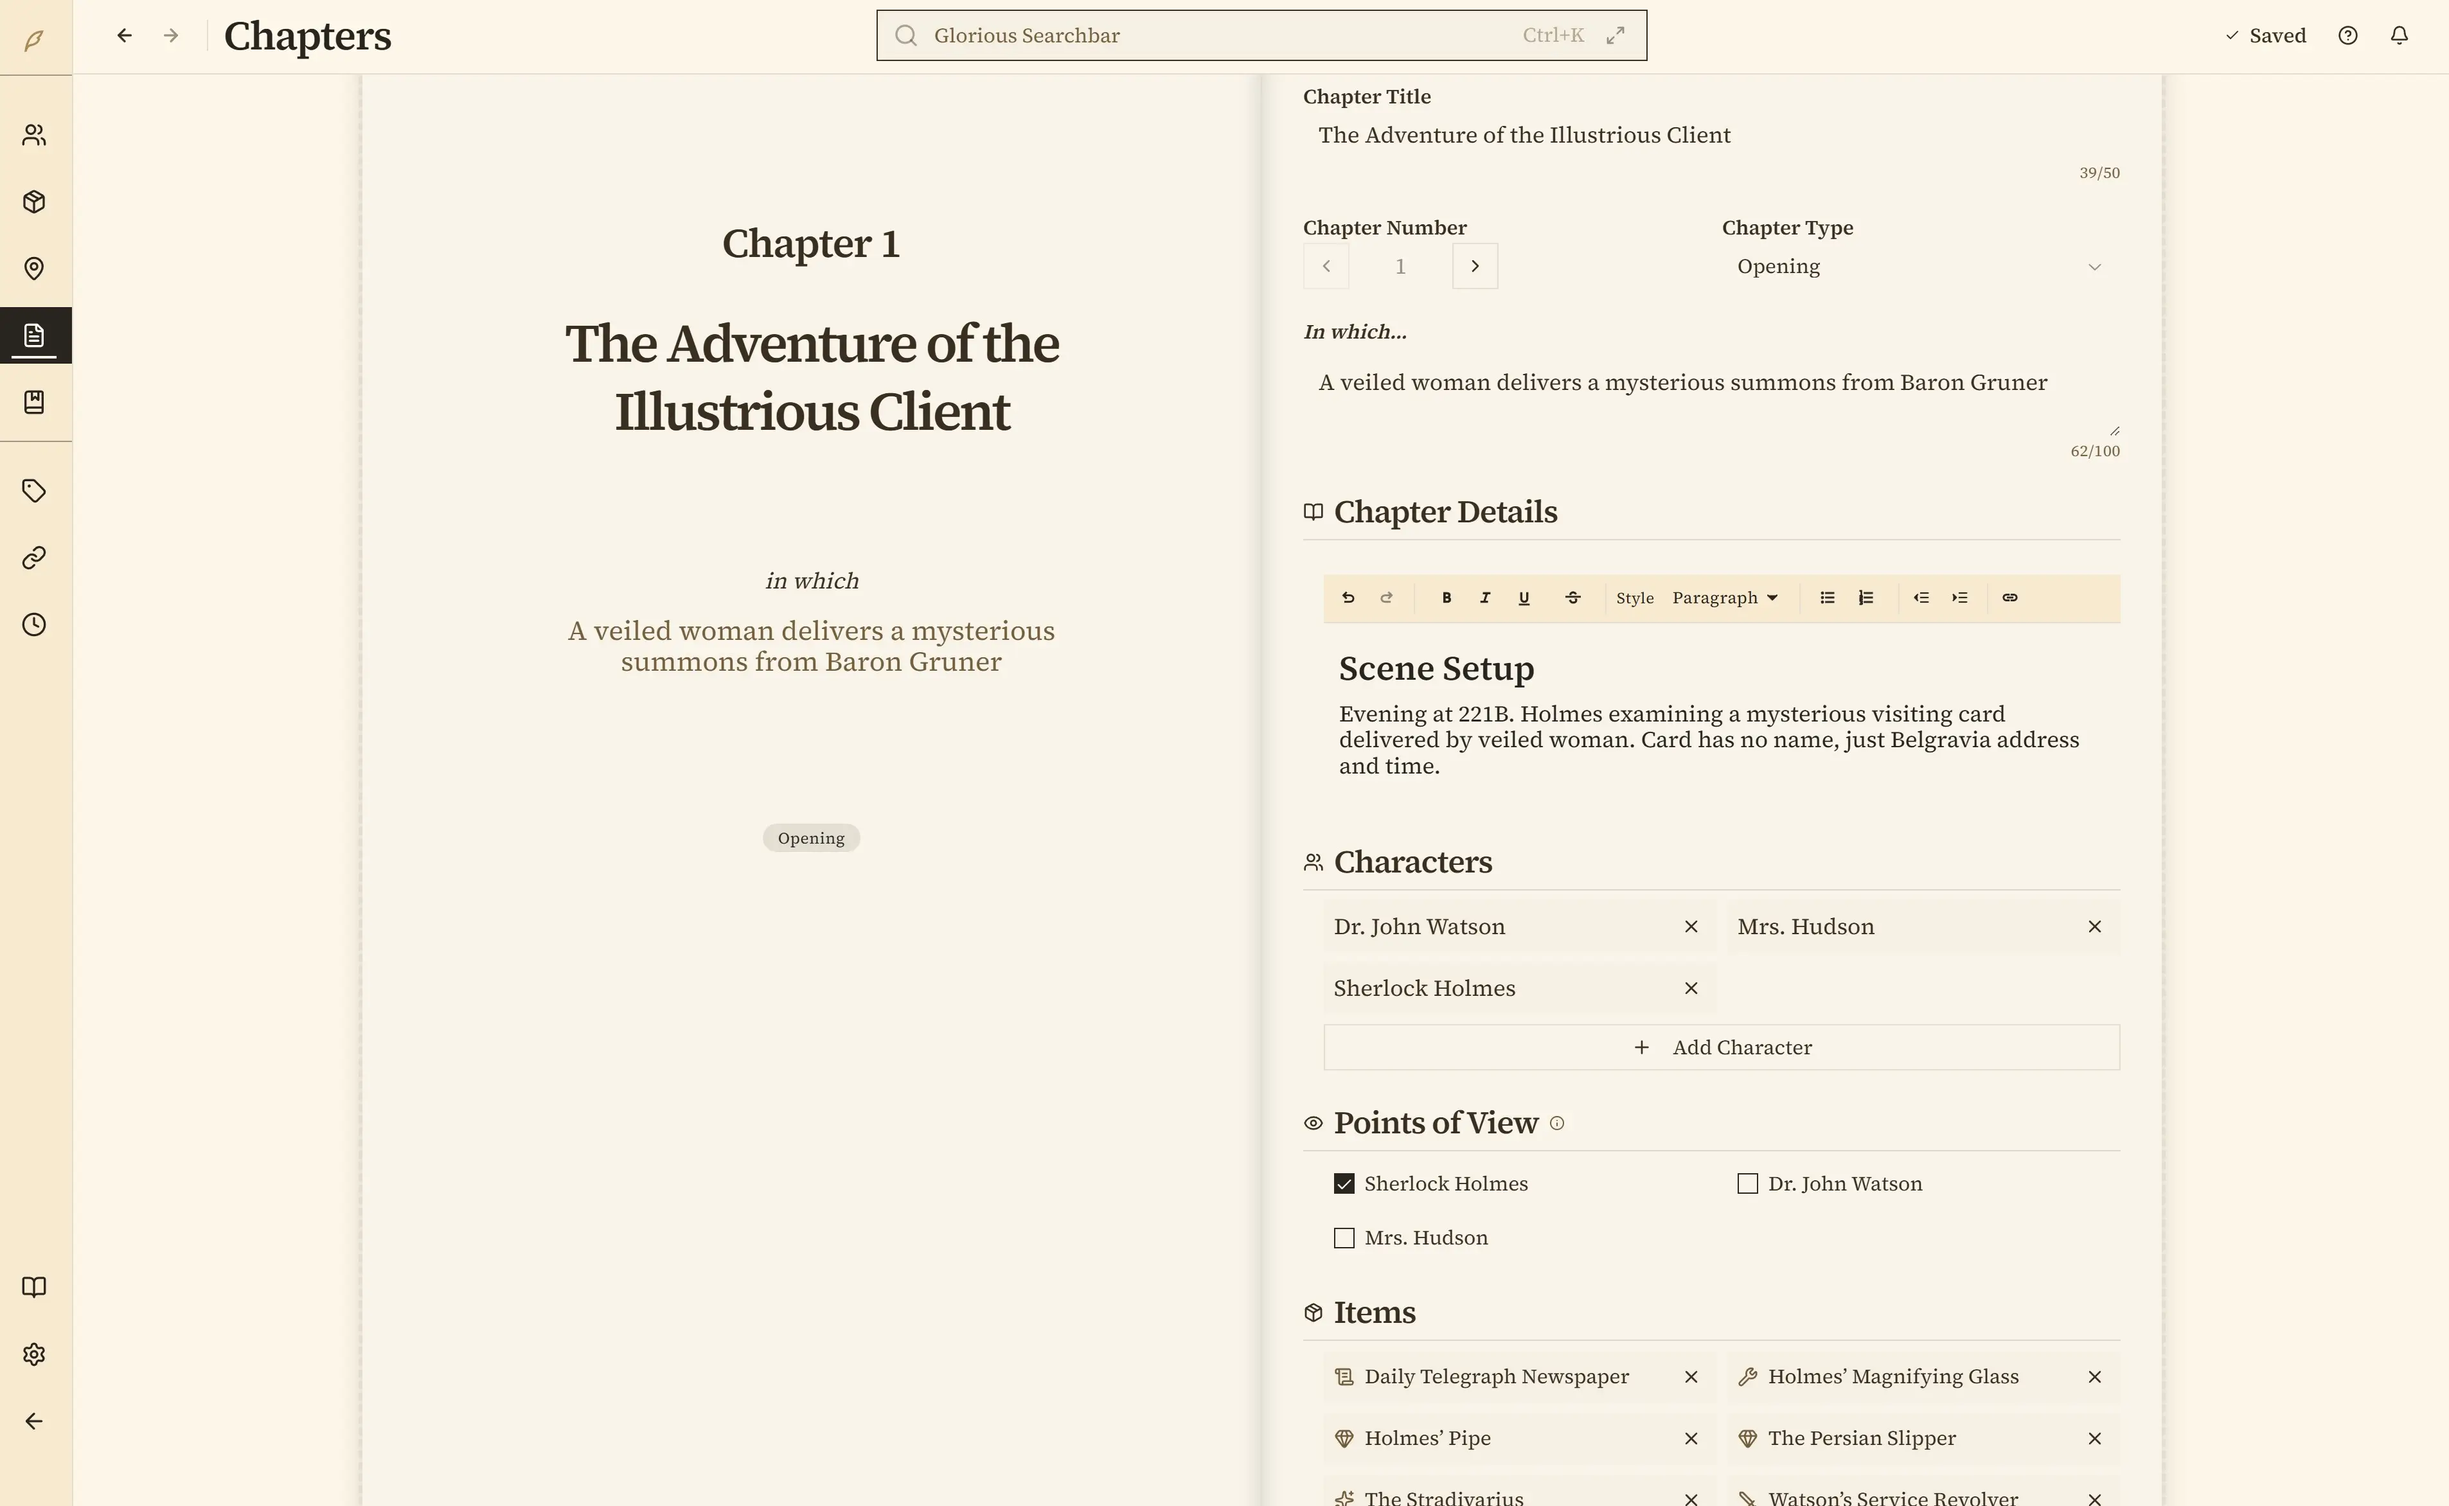
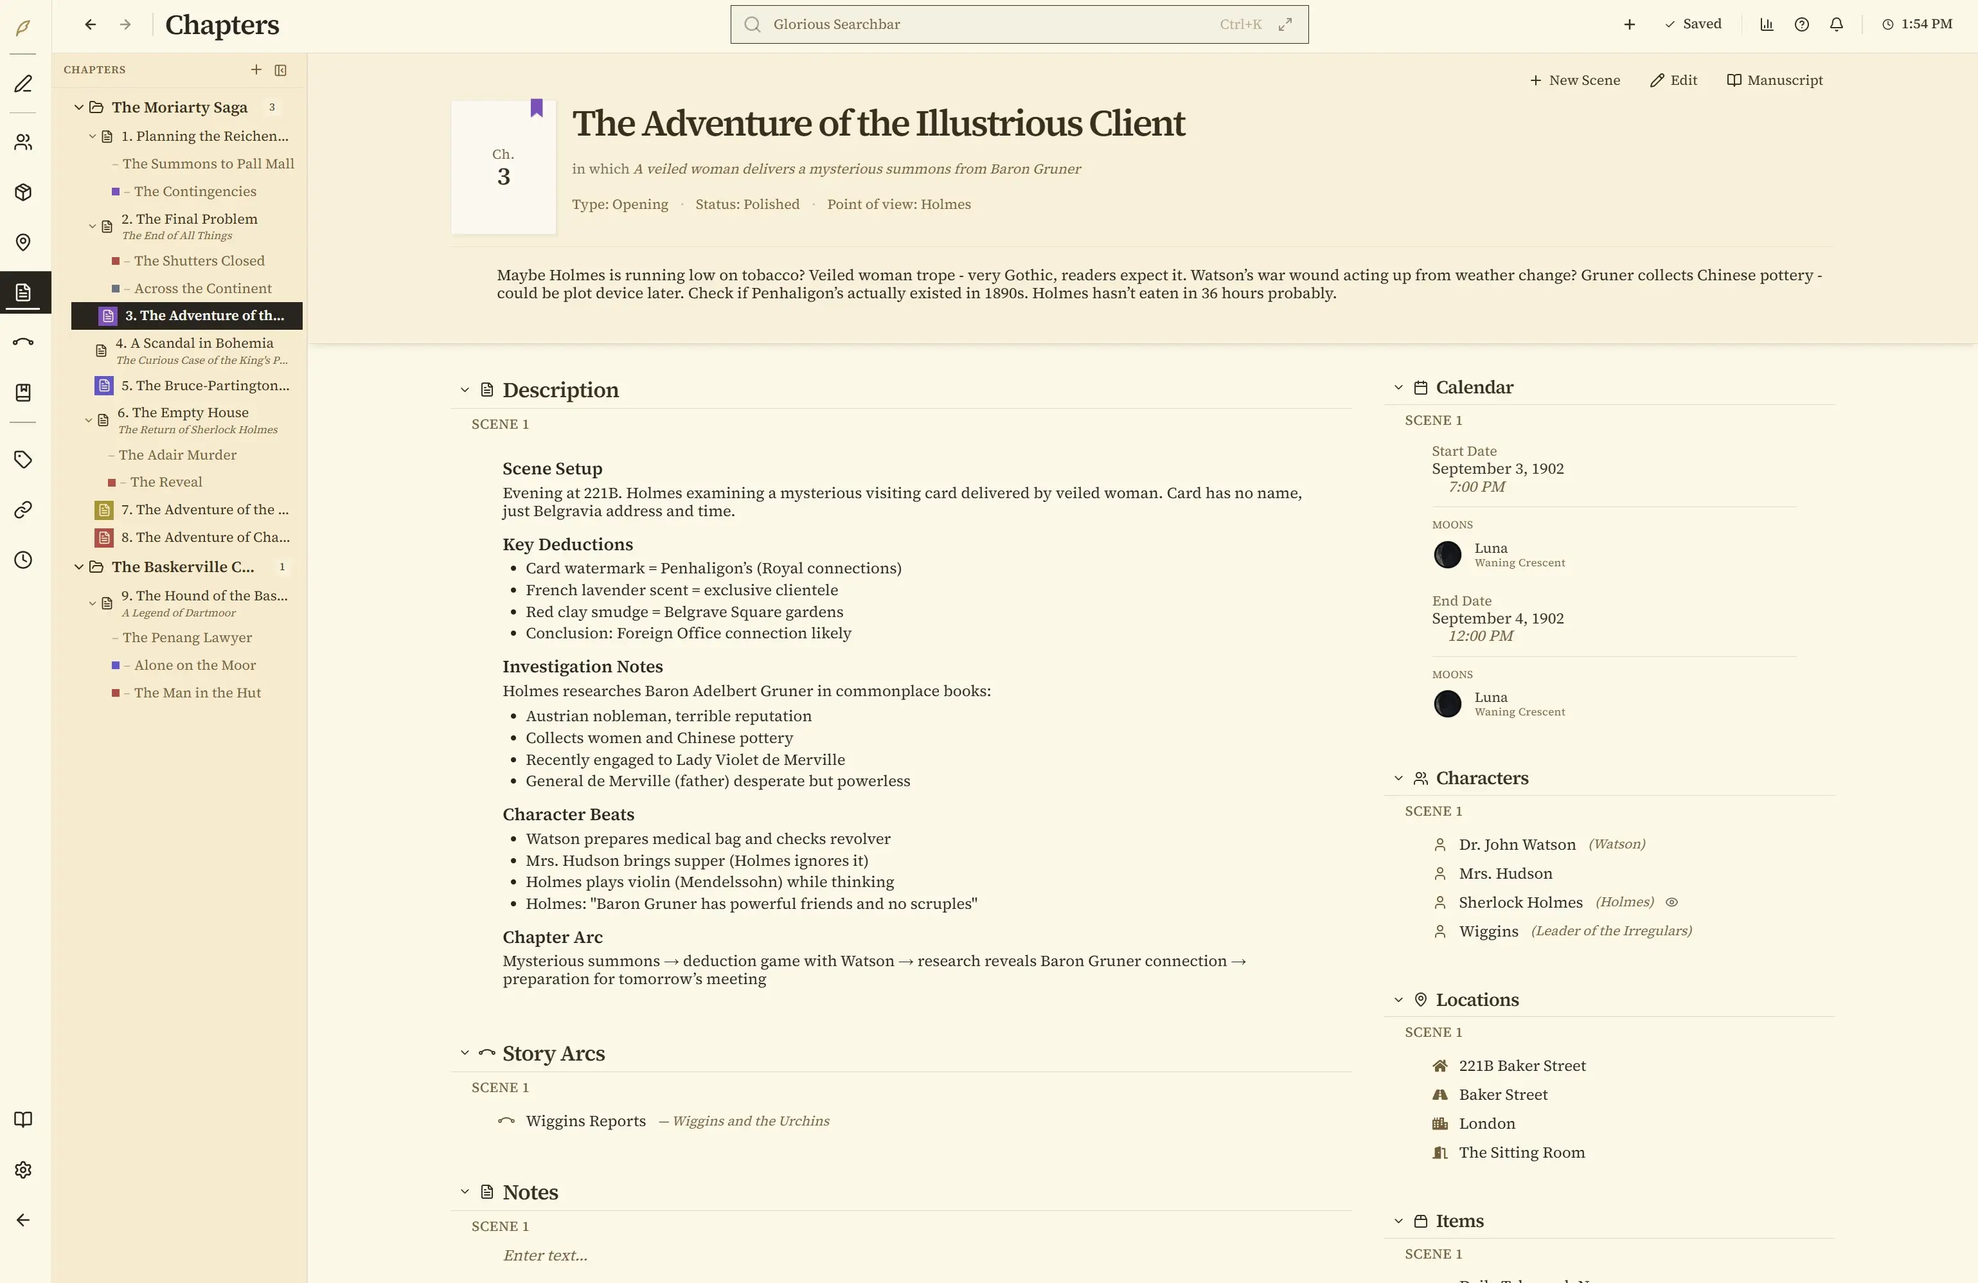
Update Chapters page descriptions for v1.2.0 reimagining
Align index.html, llms.txt, and compare.html copy with the v1.2.0
Chapters page rebuild — block-based per-chapter layouts and per-scene
worldbuilding tracking. Adds two new comparison rows backed by
research into Scrivener, Dabble, Campfire, and World Anvil.

diff --git a/index.html b/index.html
@@ -92,7 +92,7 @@
       "https://penpoint.app/images/ArcViewer.webp",
       "https://penpoint.app/images/CharacterArcs.webp"
     ],
-    "featureList": "Manuscript Editor, Manuscript Import (Word/EPUB/Markdown/TXT), Manuscript Export (Word/PDF/RTF/Markdown/TXT), Chapter Scanner, Offline Spellchecker (60 languages), Flowstate Writing Mode, Relationship Map, Story Arc Visualizer, Character Arc Visualizer, Glorious Searchbar (Ctrl+K), Custom Character Layouts, Nested Locations, Items & Possessions Tracking, Universal Tags, Timeline View, Compendium, Multi-Book Library, @Mention Linking, Notebook, Scene Drafts & Versions",
+    "featureList": "Manuscript Editor, Manuscript Import (Word/EPUB/Markdown/TXT), Manuscript Export (Word/PDF/RTF/Markdown/TXT), Chapter Scanner, Offline Spellchecker (60 languages), Flowstate Writing Mode, Relationship Map, Story Arc Visualizer, Character Arc Visualizer, Glorious Searchbar (Ctrl+K), Custom Character Layouts, Custom Chapter Layouts, Per-Scene Worldbuilding, Nested Locations, Items & Possessions Tracking, Universal Tags, Timeline View, Compendium, Multi-Book Library, @Mention Linking, Notebook, Scene Drafts & Versions",
     "releaseNotes": "Launched March 2026. Active development with regular updates.",
     "datePublished": "2026-03-21",
     "downloadUrl": "https://penpoint.app/trial",
@@ -862,17 +862,17 @@
           <p class="quick-feature__desc font-body-sm">Kingdom &rarr; City &rarr; Tavern &rarr; Secret Basement. It's all there, with every detail saved for each of your book's settings.</p>
         </button>
 
-        <!-- 5. Organize Chapters -->
+        <!-- 5. Customize Chapters -->
         <button type="button" class="quick-feature card-hover" data-animate="fade-up"
                 data-lightbox="chapters"
-                data-lightbox-title="Organize Your Chapters"
-                data-lightbox-desc="Create, reorder, and rename chapters with ease. Track whose POV each chapter follows, which characters appear, and where the action takes place. Your story's structure, laid out clearly so you can see the shape of your narrative at a glance."
+                data-lightbox-title="Customize Your Chapters"
+                data-lightbox-desc="Each chapter has its own customizable block-based layout, just like your Character Sheets. Every scene stands on its own with its own characters, locations, items, POV, and dates from your book's calendar — real-world Gregorian, day-counter, or a custom fantasy calendar you design. The outliner sidebar mirrors Manuscript Mode, so navigating between chapters and scenes feels instantly familiar. Design a chapter view that fits how you plan stories."
                 data-lightbox-image="images/Chapters.webp">
           <div class="quick-feature__image-wrapper">
-            <img src="images/Chapters.webp" alt="Chapters page showing POV tracking and character appearances" class="quick-feature__image quick-feature__image--chapter-detail" width="3811" height="2344" loading="lazy">
+            <img src="images/Chapters.webp" alt="Chapters page with customizable per-scene blocks" class="quick-feature__image quick-feature__image--chapter-detail" width="3811" height="2344" loading="lazy">
           </div>
-          <h3 class="quick-feature__title">Organize Your Chapters</h3>
-          <p class="quick-feature__desc font-body-sm">Track POV, character appearances, and scene locations. Reorder with drag-and-drop as your story evolves</p>
+          <h3 class="quick-feature__title">Customize Your Chapters</h3>
+          <p class="quick-feature__desc font-body-sm">Design a chapter view that fits how you plan stories. Block-based layouts let each scene track its own POV, characters, locations, and items.</p>
         </button>
 
         <!-- 6. Notes for Everything Else -->

diff --git a/compare.html b/compare.html
@@ -742,6 +742,24 @@
             </tr>
 
             <tr>
+              <td>Customizable Chapter Layouts</td>
+              <td data-label="Penpoint" class="cmp-pp cmp-yes">&#10003;<span class="cmp-detail">Block-based, like Character Sheets</span></td>
+              <td data-label="Scrivener" class="cmp-no">&#10007;<span class="cmp-detail">Compile-time templates only</span></td>
+              <td data-label="Campfire" class="cmp-no">&#10007;<span class="cmp-detail">Panels not supported on Manuscript</span></td>
+              <td data-label="World Anvil" class="cmp-no">&#10007;<span class="cmp-detail">Fixed chapter/scene UI</span></td>
+              <td data-label="Dabble" class="cmp-no">&#10007;</td>
+            </tr>
+
+            <tr>
+              <td>Per-Scene Worldbuilding</td>
+              <td data-label="Penpoint" class="cmp-pp cmp-yes">&#10003;<span class="cmp-detail">Characters, locations, items, POV per scene</span></td>
+              <td data-label="Scrivener" class="cmp-partial">Text only<span class="cmp-detail">Custom metadata, no entity links</span></td>
+              <td data-label="Campfire" class="cmp-no">&#10007;<span class="cmp-detail">Inline @mentions only</span></td>
+              <td data-label="World Anvil" class="cmp-no">&#10007;<span class="cmp-detail">Synopsis &amp; notes only</span></td>
+              <td data-label="Dabble" class="cmp-no">&#10007;<span class="cmp-detail">No entity links, freeform notes</span></td>
+            </tr>
+
+            <tr>
               <td>Relationship Map</td>
               <td data-label="Penpoint" class="cmp-pp cmp-yes">&#10003;<span class="cmp-detail">Visual, interactive</span></td>
               <td data-label="Scrivener" class="cmp-no">&#10007;<span class="cmp-detail">Scapple is separate ~$21</span></td>
@@ -872,7 +890,7 @@
           World Anvil is a wiki-style tool built for tabletop RPG worldbuilding, with 25+ worldbuilding templates and locations inside other locations. The manuscript editor is basic, and you can only export as a web file. Paid plans do include co-author slots, but real-time collaboration and manuscript tools are thin.
         </p>
         <p>
-          Penpoint comes with relationship maps, story & character arc visualizers, dynamic @ name linking, chapter timelines, item tracking, locations inside other locations, chapter and scene breakdowns, a fully featured note editor with image and folder storage, and the "Minipen" - a miniature version of your worldbuilding that goes alongside the Manuscript editor. Book Series support is coming soon — convert a book into a Series that houses all your installments and shared worldbuilding in one place. All of it, $40.
+          Penpoint comes with relationship maps, story & character arc visualizers, dynamic @ name linking, chapter timelines, item tracking, locations inside other locations, customizable per-chapter block layouts with per-scene character, location, item, and POV tracking, a fully featured note editor with image and folder storage, and the "Minipen" - a miniature version of your worldbuilding that goes alongside the Manuscript editor. Book Series support is coming soon — convert a book into a Series that houses all your installments and shared worldbuilding in one place. All of it, $40.
         </p>
 
         <h2>Writing and manuscript tools</h2>
